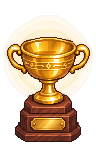
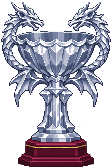
合并 luiluu/fest-trophy-pos
执行者: cc（唐僧）
核查: 待审查

(cherry picked from commit 8e59271eb553e0eb6897d541a7fc5b1c638349f1)

diff --git a/00_项目管理/交付/luiluu_fest-trophy-pos.md b/00_项目管理/交付/luiluu_fest-trophy-pos.md
@@ -1,0 +1,44 @@
+# 交付单：T059 大厅奖杯换银龙杯 B 版＋摆放位置（定稿）
+
+状态：可合并（Kyo 11-16 改口：候选 B（整组再左移 2 格避开异化圈）＋银龙杯 v2_b；总装合前按协调放行改状态）。
+
+## 定稿（本分支后两个提交）
+- fa815e42a：Fest_Trophy.png 换 T058 银龙杯 v2_b（112×168），锚点改 (56,167)。
+- bbcbda9e8：先按候选 A 上移到 (21,15)(22,15)。
+- 最终（Kyo 改口选 B，本分支后续提交）：报名处 (5,17)、奖杯 (6,17)(7,17)、使者 (8,17)，脚底 (7×48, 18×48)。原 B (8,17)(9,17) 的 (9,17) 距异化中心 (14,19) 5.39 在圈内，故整组左移 2 格（使者 6.32 在圈外），圈外断言不放宽；专项 xiyou_fest_lobby 121/121；最终图 04_验证/本地结果/t059/final_B.png（本地，不入库）。
+- 下文为候选阶段的记录，保留备查。
+
+## 截图（同一视角：玩家 (17,18)，活动第 1 天，无异化层；右下的成就弹窗是测试环境产物）
+目录 `03_再刷重制_Godot/04_验证/本地结果/t059/`
+- `cand0_now.png` 现状：格 (21,17)(22,17)，脚底 (22×48, 18×48)
+- `candA_up.png` 候选 A：格 (21,15)(22,15)，脚底 (22×48, 16×48)
+- `candB_left.png` 候选 B：格 (8,17)(9,17)，脚底 (9×48, 18×48)
+- `candC_down.png` 候选 C：格 (21,21)(22,21)，脚底 (22×48, 22×48)
+- 另有专项自带的 `fest_lobby_*.png`（现状，含使者／报名处）
+
+## 现状哪里怪
+1. 报名处 (20,17)、奖杯 (21,17)(22,17)、使者 (23,17) 四个挤成一排，奖杯夹在两个 NPC 中间，像第三个 NPC，不像展品。
+2. 奖杯偏右贴墙（右墙约第 24 列），而横幅在第 23 行正中（x 264～1032），两者隔 5 行、又不在同一条竖轴上，没有「横幅—奖杯」的呼应。
+3. 奖杯图 96×144、向上画 142px，约 3 格高；它所在的第 17 行是大厅右侧人最多的一行，视觉上最挤。
+- 约束：异化圈中心 (14,19) 半径 6，专项断言奖杯／使者／报名处都在圈外，所以「横幅正上方的中轴」（红毯前 13～18 行）进不去；红毯上（行 ≤12）有 NPC 和卫兵，也不合适。
+
+## 候选与理由
+- **A（上移 2 行，推荐）**：(21,15)(22,15)。离开那一排，脚下留出整行空地，不压使者／报名处的对话格；仍在右侧、离异化圈 ≥7.2 格；奖杯高度正好在红毯下沿与右墙之间，进门（南）往北看是红毯→奖杯的一条线。改动最小（两个常量）。
+- **B（左侧）**：(8,17)(9,17)。完全离开 NPC 那排，左边空，视觉居中偏左；缺点是离使者／报名处（对话点）远，玩家要走一段才找到，且与右侧三个大 NPC 失衡。
+- **C（下移到横幅右端）**：(21,21)(22,21)。奖杯立在横幅右端上方，与横幅挨在一起（呼应最强），也离开那一排；缺点是位于大厅南部人流入口附近，可能挡视线；该处 (21,21)(22,21)(21,22)(22,22) 通行未单独验证，只是图上看是地面。距异化圈中心 7.3 格。
+
+## 验证
+- `xiyou_fest_lobby` 现状专项：TEST_RESULT passed 121/121（本单未改任何代码，候选未提交）。
+- 三个候选只改 `TROPHY_CELLS`、`TROPHY_FOOT` 两个常量截图后已还原（`git status` 干净）。
+- 候选下事件 80/81 仍随格子走，可对话；通行、对话格不压的断言（`active.cells`、`active.trophy_blocks_*`）选定后需同步改专项里的格子常量。
+
+## 可优化
+- 横幅现在离奖杯远，若 Kyo 要「横幅—奖杯」强呼应，更好的办法是把横幅（BANNER_POS）也上移到第 14～15 行，与 A 同一视野。
+
+## 变更记录草稿
+
+## 2026-11-16 【cc·T059·未经审查】冠军庆典大厅：奖杯换银龙杯、摆到大厅左侧，使者／报名处分站两侧（dev.待定）
+
+- 奖杯图 Fest_Trophy.png 换 T058 银龙杯 v2_b（112×168，锚点 (56,167)）；Kyo 11-16 看截图定，并改口选候选 B（左侧）。
+- 奖杯从 (21,17)(22,17) 移到 (6,17)(7,17)，报名处 (5,17)、使者 (8,17) 分站两侧；比原候选 B 再左 2 格，使全部落在异化圈（中心 (14,19) 半径 6）外，不改圈外断言。专项 xiyou_fest_lobby 格子常量同步，121/121。
+- 玩家可见：庆典大厅的冠军奖杯换了新造型，摆到大厅左侧，报名处和使者站在它两边。
